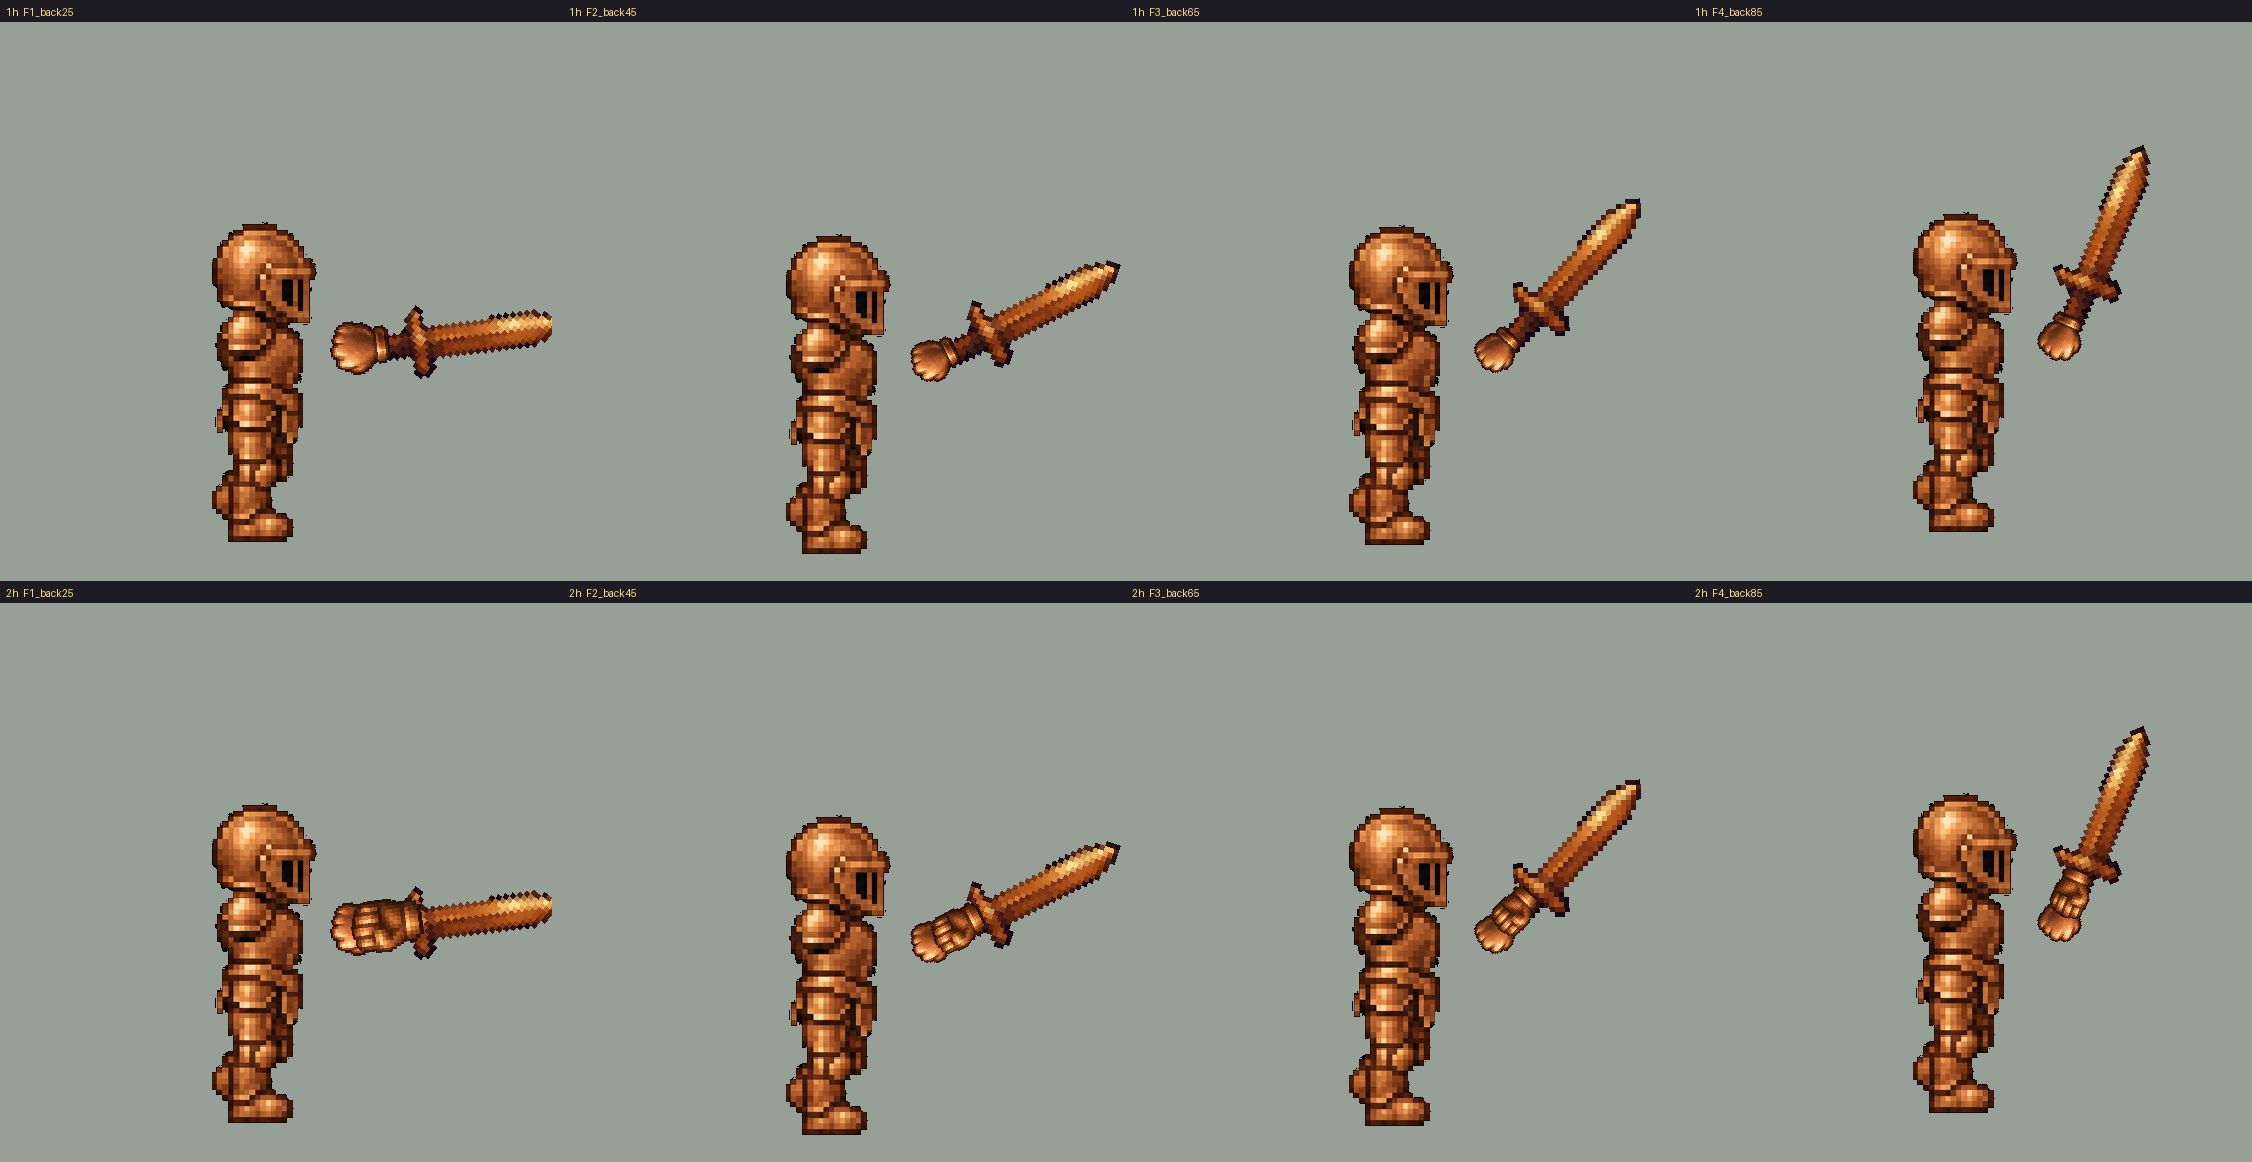
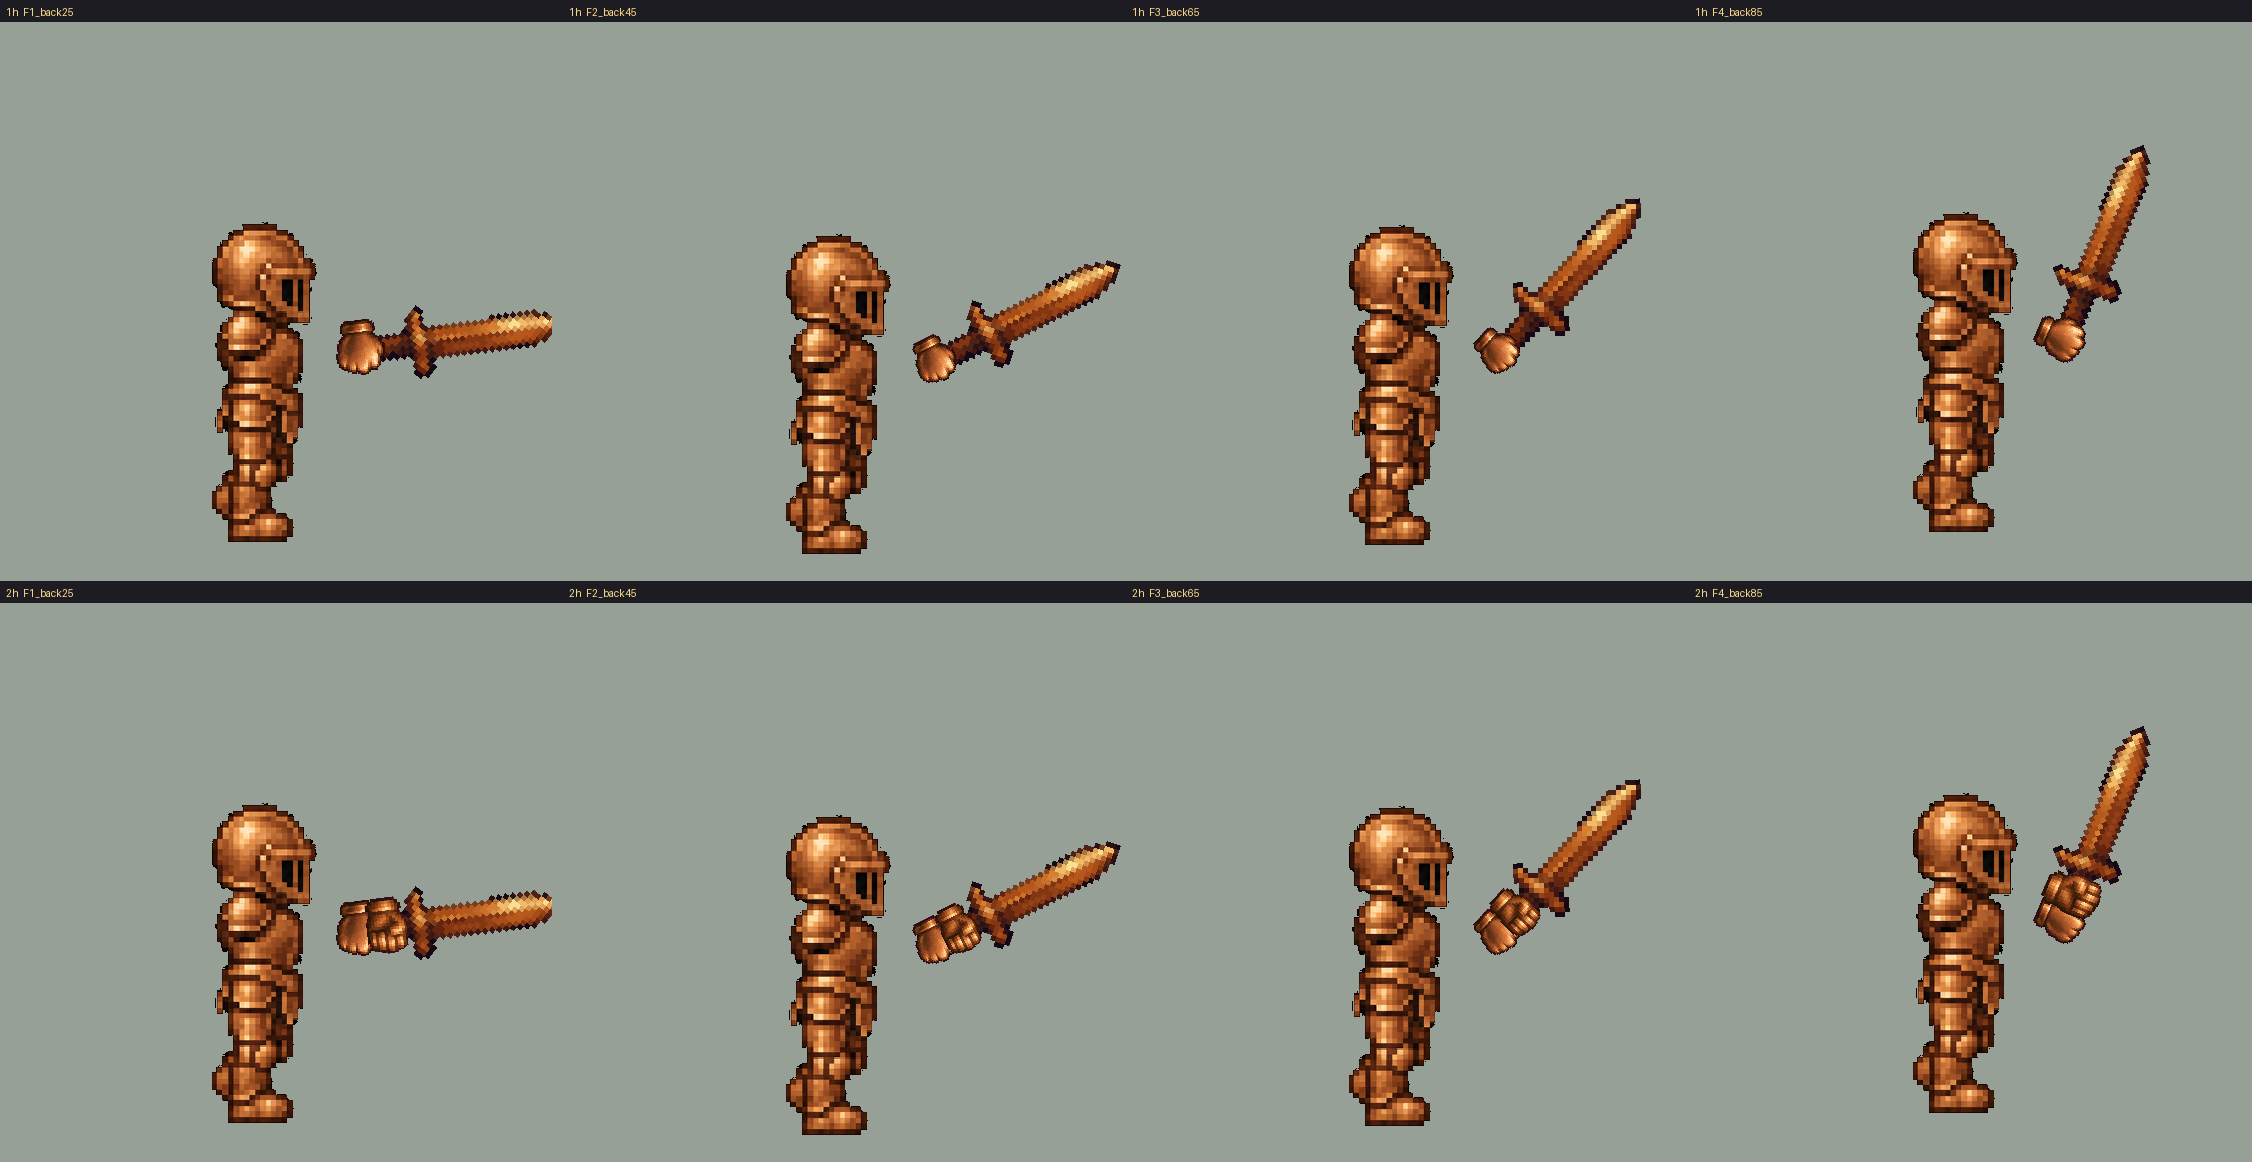
Hand perp 180, and today's swing decisions written down
"hand perp 180" - picked off HAND_ROTATION_which_way.png, which renders 0/90/180/
270 at the same frame. 90 was wrong ("dude you turned the hand the wrong way")
and 270 was my guess at the opposite, also wrong. Recorded as picked BY EYE
against the render, in both the design guide and DECISIONS.md, so it does not get
re-derived from reasoning about wrists.

Wrote the whole swing decision into APPROVED/DECISIONS.md the same day, which is
the step that keeps getting skipped:

  - the model: hand travels, blade at a fixed angle behind the arm, tool follows
  - HAND_PERP 180, no wrist articulation, path 128 -> -74 deg, reach 0.60
  - two-handed uses BOTH approved grips, one per arm
  - the "keep the hand within a third of a cell of the shoulder" constraint is
    OVERTURNED, with his words for why
  - HAND_ROT 225 / GRIP_EXTRA 0.16 belong to the old shoulder-pivot swing and
    must not be carried forward
  - still open: how far back the blade is held (F1-F4), and the other five tools

diff --git a/tools/player_sprites/swing_arm.py b/tools/player_sprites/swing_arm.py
@@ -137,7 +137,11 @@ def v_wrist(t):
 #
 # `HAND_PERP` replaces `HAND_ROT` (225), which was tuned for the old shoulder-pivot swing and has no
 # meaning once the hand travels.
-HAND_PERP = 90.0
+# OWNER'S PICK, 2026-08-04: "hand perp 180". Chosen off `HAND_ROTATION_which_way.png` in the review
+# folder, which renders 0 / 90 / 180 / 270 side by side at the same frame.
+# 90 was wrong — "dude you turned the hand the wrong way" — and 270 was my guess at the opposite, also
+# not it. Do not re-derive this from reasoning about wrists; it was picked by eye against the render.
+HAND_PERP = 180.0
 START_TH, END_TH = 128.0, -74.0     # a little behind the head, swinging down
 BACK_REACH = 0.60                   # B_far's reach — the one he pointed at
 

diff --git a/tools/_generated/player/APPROVED/DECISIONS.md b/tools/_generated/player/APPROVED/DECISIONS.md
@@ -113,3 +113,57 @@ the far fist is dimmed to 0.62 and drawn behind. Beat phase `[0.5, 0.0, 1.5, 1.0
 The **front** walk is a separate implementation, not the side one re-aimed: hands sit *outside* the body
 edges, edges measured per frame at 0.62 down, one hand rises while the other drops (±0.15 of body span),
 phase `[1, 0, -1, 0]`, left hand mirrored, neither rotated nor dimmed.
+
+---
+
+## 2026-08-04 — THE SWING: the hand travels, the tool follows
+
+### What was wrong with every swing before this
+
+> *"do people take a sword in their fist, hold their fist up to their shoulder and rotate their fist to
+> swing it? ever?"* — 2026-08-04
+
+No. And that is exactly what `swing_frames` did. It computed **one angle**, placed the **tool** at a fixed
+small radius from the body centre, then stuck the hand onto the tool's grip. The tool led and the hand was
+downstream of it, so the fist stayed parked beside the shoulder and **rotated in place** while the blade
+swept round it like a clock hand bolted to his chest.
+
+Every "fix" for weeks — iterations 1-12, the four "vertical" variants of this morning — retimed that same
+motion. **Timing was never the problem.** `DESIGN.md` already said *"Drive the HAND, then hang the tool off
+it"*; the renderer contradicted its own design doc and nobody checked.
+
+### The model, settled
+
+```
+shoulder    a fixed point on the body
+hand        shoulder + reach(t) x direction(t)              <- THE HAND TRAVELS
+blade       held at a FIXED angle behind the arm            <- no wrist articulation
+tool        placed so its measured grip lands on the hand   <- the tool FOLLOWS
+```
+
+`tools/player_sprites/swing_arm.py`.
+
+### Decided today
+
+| | value | his words |
+|---|---|---|
+| hand rotation | **`HAND_PERP = 180`** | *"hand perp 180"* — picked off `HAND_ROTATION_which_way.png`, which renders 0/90/180/270 side by side |
+| wrist | **none** — blade at one fixed angle behind the arm for the whole swing | *"you dont need to have the wrist angle with respect to the pommel of the sword, its awkward"* |
+| path | starts a little behind the head (128°), swings down to −74° | *"it should start a little behind the head and swing down"* |
+| reach | **0.60 cells** | *"similar to far"* |
+| two-handed | **both** approved grips — back of hand on one arm, palm on the other | the pair approved 08-01, one per arm |
+
+**The "keep the hand near the shoulder" constraint is OVERTURNED.** `DESIGN.md` said *"keep the hand
+within roughly a third of a cell of the shoulder"* because a fist out at arm's length was thought to look
+detached with no arm drawn. That is what pinned the hand at the shoulder and made a real swing impossible.
+
+> *"dont care about the arm missing, though it doesnt have to be realistic just out some"* — 2026-08-04
+
+⚠ **`HAND_ROT = 225` and `GRIP_EXTRA = 0.16` belong to the OLD shoulder-pivot swing.** They were tuned when
+the tool led. They are meaningless once the hand travels — do not carry them forward.
+
+### Still open
+
+- **How far back the blade is held.** Four rendered — F1 25°, F2 45°, F3 65°, F4 85° — in
+  `reviews/2026-08-04-swing-arm2/`. Not yet picked.
+- Only the **sword** is done. Axe, hoe, net, shovel and spear follow once the sword is settled.

diff --git a/docs/guides/art/CHARACTER_DESIGN_GUIDE.md b/docs/guides/art/CHARACTER_DESIGN_GUIDE.md
@@ -305,7 +305,12 @@ out some."*
 **No wrist articulation, and the fist grips ACROSS the handle.** Owner: *"you dont need to have the wrist
 angle with respect to the pommel of the sword, its awkward... the sword can be angled back more... so that
 the hand is perpendicular with the pommel."* So the blade sits at **one fixed angle behind the arm** for
-the whole swing, and the fist is rotated perpendicular to the blade (`HAND_PERP = 90`).
+the whole swing, and the fist is rotated to **`HAND_PERP = 180`**.
+
+⚠ **180 was picked BY EYE, not derived.** `reviews/2026-08-04-swing-arm2/HAND_ROTATION_which_way.png`
+renders 0 / 90 / 180 / 270 at the same frame; owner: *"hand perp 180"*. Reasoning about where a wrist
+"should" be produced 90 first and then 270, and both were wrong. **Render the four and look** — do not
+re-derive it.
 
 ⚠ **`HAND_ROT = 225` and `GRIP_EXTRA = 0.16` belong to the OLD shoulder-pivot swing** — they were tuned
 when the tool led and the hand was stuck to its grip. Once the hand travels they are meaningless; do not
